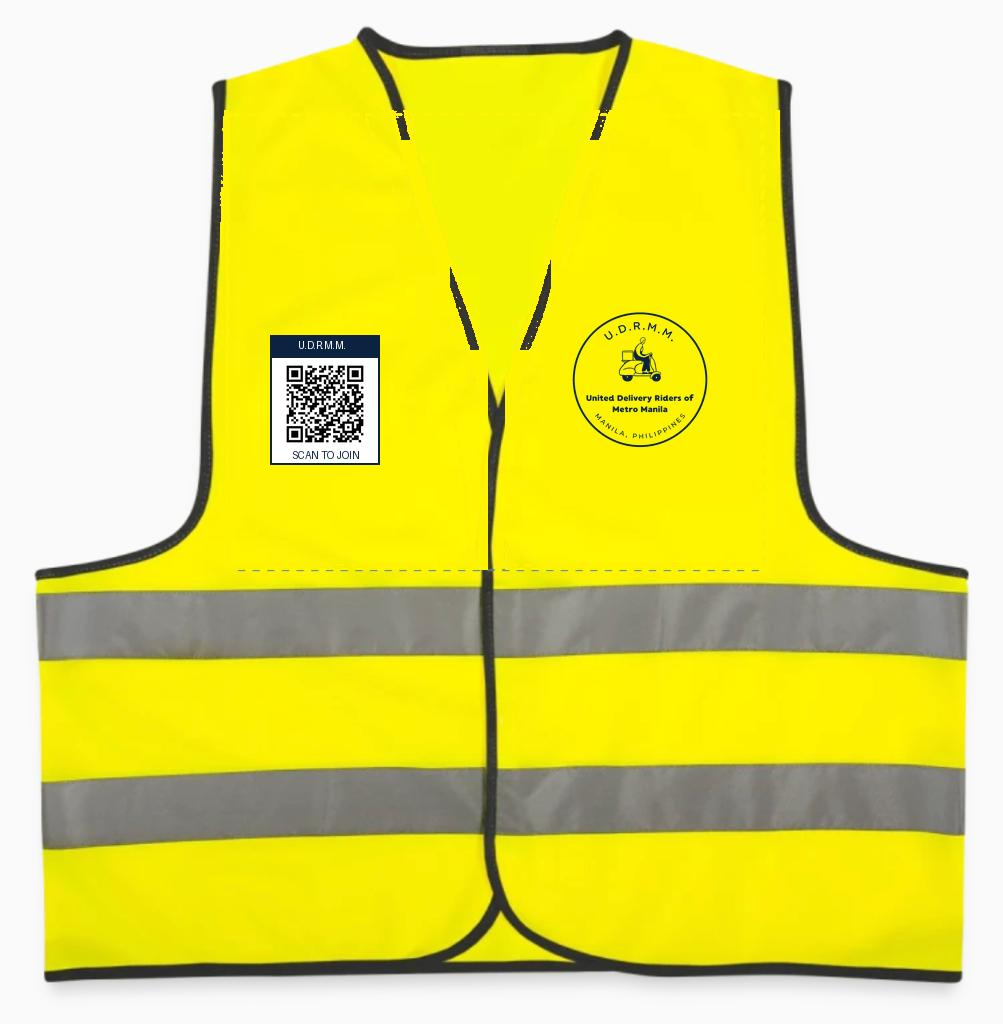
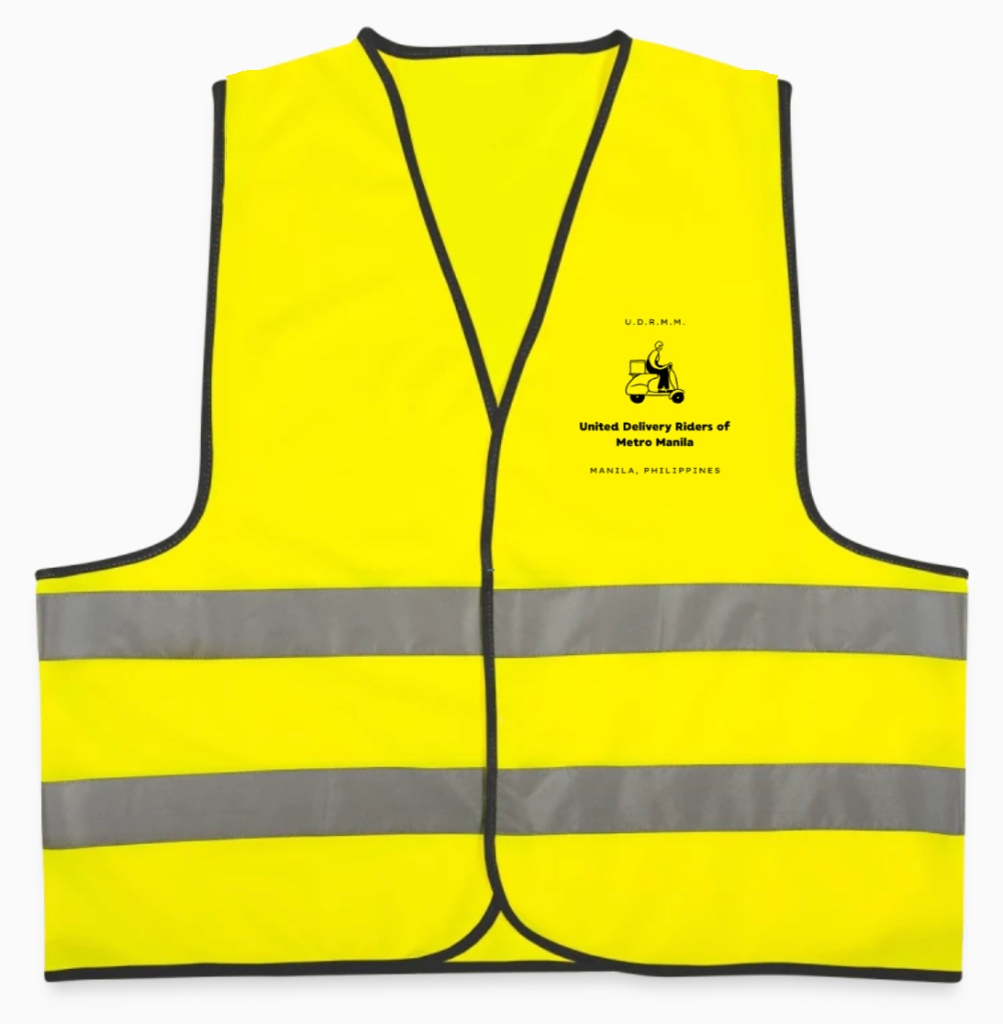
Restore pristine safety vest photos without QR codes or draft lines and restore full contours

diff --git a/app.js b/app.js
@@ -131,7 +131,7 @@ const translations = {
     accessoriesDesc: "High-durability accessories designed for riders and solidarity allies.",
     
     itemVestTitle: "Official high-vis security jacket / safety vest",
-    itemVestDesc: "Industrial-grade neon yellow security safety vest with dual 3M reflective bands. Features the official union credential badge with scannable QR code on the chest and the rallying slogan 'NO DELIVERY IS WORTH A RIDER'S SAFETY' on the back.",
+    itemVestDesc: "Industrial-grade neon yellow security safety vest with dual 3M reflective bands. Features the official union emblem on the chest and the rallying slogan 'NO DELIVERY IS WORTH A RIDER'S SAFETY' on the back.",
     itemVestSizeLbl: "Size:",
 
     itemStickersTitle: "Official weatherproof vinyl sticker pack (Yellow & Red)",
@@ -338,7 +338,7 @@ const translations = {
     accessoriesDesc: "Matitibay na gamit para sa mga rider at tagapagtaguyod ng karapatan sa paggawa.",
     
     itemVestTitle: "Opisyal na High-Vis Security Jacket / Safety Vest",
-    itemVestDesc: "Maliwanag na neon yellow security safety vest na may dobleng 3M reflective safety bands. May opisyal na credential patch na may scannable QR code sa dibdib at ang panawagang 'NO DELIVERY IS WORTH A RIDER'S SAFETY' sa likod.",
+    itemVestDesc: "Maliwanag na neon yellow security safety vest na may dobleng 3M reflective safety bands. May opisyal na sagisag ng unyon sa dibdib at ang panawagang 'NO DELIVERY IS WORTH A RIDER'S SAFETY' sa likod.",
     itemVestSizeLbl: "Sukat:",
 
     itemStickersTitle: "Opisyal na Weatherproof Vinyl Sticker Pack (Dilaw at Pula)",
@@ -783,7 +783,7 @@ const productsCatalog = {
     titleEn: 'Official high-vis security jacket / safety vest',
     titleFil: 'Opisyal na High-Vis Security Jacket / Safety Vest',
     price: 320,
-    img: 'assets/product-vest.jpg',
+    img: 'assets/product-vest.jpg?v=20261012_v8',
     getVariant: () => `Size: ${selectedVestSize}`
   },
   'stickers': {
@@ -995,7 +995,7 @@ function setupMembershipModal() {
             </div>
 
             <div class="free-poncho-notice" style="text-align: left; margin: 1.5rem 0;">
-              <img src="assets/product-vest.jpg" alt="Official Union Gear" style="width: 56px; height: 56px; object-fit: cover;">
+              <img src="assets/product-vest.jpg?v=20261012_v8" alt="Official Union Gear" style="width: 56px; height: 56px; object-fit: cover;">
               <div>
                 <strong style="color: var(--ph-blue); font-size: 0.95rem; display: block; margin-bottom: 2px;">
                   🛡 Official high-vis safety vest & stickers package included!
@@ -1273,8 +1273,7 @@ function getThematicFallback(type) {
       <path d="M140 50 L160 50 L200 110 L240 50 L260 50 L290 110 L280 250 L120 250 L110 110 Z" fill="#FACC15" stroke="#1F2937" stroke-width="3"/>
       <rect x="118" y="170" width="164" height="18" fill="#E2E8F0" stroke="#94A3B8" stroke-width="1"/>
       <rect x="116" y="205" width="168" height="18" fill="#E2E8F0" stroke="#94A3B8" stroke-width="1"/>
-      <rect x="145" y="115" width="22" height="26" fill="#FFFFFF" stroke="#1F2937" stroke-width="1.5"/>
-      <text x="200" y="280" fill="#854D0E" font-family="-apple-system, BlinkMacSystemFont, 'Segoe UI', Roboto, sans-serif" font-size="13" font-weight="800" text-anchor="middle">OFFICIAL SECURITY VEST WITH QR</text>
+      <text x="200" y="280" fill="#854D0E" font-family="-apple-system, BlinkMacSystemFont, 'Segoe UI', Roboto, sans-serif" font-size="13" font-weight="800" text-anchor="middle">OFFICIAL SECURITY VEST</text>
     </svg>`,
     poncho: `<svg xmlns="http://www.w3.org/2000/svg" viewBox="0 0 400 300" width="100%" height="100%">
       <rect width="400" height="300" fill="#FFF5F7"/>

diff --git a/index.html b/index.html
@@ -510,18 +510,18 @@
           <!-- 1. Official High-Vis Security Jacket / Safety Vest -->
           <div class="product-card">
             <div class="product-thumb-wrap">
-              <img id="vest-main-img" src="assets/product-vest.jpg" alt="Official UDRMM High-Vis Security Jacket" class="product-thumb" width="400" height="240" loading="lazy" decoding="async">
-              <span class="product-tag">3M Reflective • QR Verified</span>
+              <img id="vest-main-img" src="assets/product-vest.jpg?v=20261012_v8" alt="Official UDRMM High-Vis Security Jacket" class="product-thumb" width="400" height="240" loading="lazy" decoding="async">
+              <span class="product-tag">3M Reflective • High-Vis</span>
               <div class="product-view-switcher" data-target="vest-main-img">
-                <button type="button" class="view-btn active" data-img="assets/product-vest.jpg" title="Dual View">Dual</button>
-                <button type="button" class="view-btn" data-img="assets/product-vest-front.jpg" title="Front View with QR Credential">Front</button>
-                <button type="button" class="view-btn" data-img="assets/product-vest-back.jpg" title="Back View">Back</button>
+                <button type="button" class="view-btn active" data-img="assets/product-vest.jpg?v=20261012_v8" title="Dual View">Dual</button>
+                <button type="button" class="view-btn" data-img="assets/product-vest-front.jpg?v=20261012_v8" title="Front View">Front</button>
+                <button type="button" class="view-btn" data-img="assets/product-vest-back.jpg?v=20261012_v8" title="Back View">Back</button>
               </div>
             </div>
             <div class="product-body">
               <h4 class="product-title" data-i18n="itemVestTitle">Official high-vis security jacket / safety vest</h4>
               <p class="product-desc" data-i18n="itemVestDesc">
-                Industrial-grade neon yellow security safety vest with dual 3M reflective bands. Features the official union credential badge with scannable QR code on the chest and the rallying slogan 'NO DELIVERY IS WORTH A RIDER'S SAFETY' on the back.
+                Industrial-grade neon yellow security safety vest with dual 3M reflective bands. Features the official union emblem on the chest and the rallying slogan 'NO DELIVERY IS WORTH A RIDER'S SAFETY' on the back.
               </p>
 
               <!-- Size Variants -->
@@ -1035,7 +1035,7 @@
 
         <!-- Dues & Gear package banner inside modal -->
         <div class="free-poncho-notice" style="border-left: 4px solid var(--ph-blue);">
-          <img src="assets/product-vest.jpg" alt="Official Union Gear" width="56" height="56" loading="lazy" decoding="async">
+          <img src="assets/product-vest.jpg?v=20261012_v8" alt="Official Union Gear" width="56" height="56" loading="lazy" decoding="async">
           <div>
             <strong style="color: var(--ph-blue); font-size: 0.92rem; display: block; margin-bottom: 2px;" data-i18n="unionDuesTitle">
               💳 Annual union dues: ₱150 PHP / year (Required)
